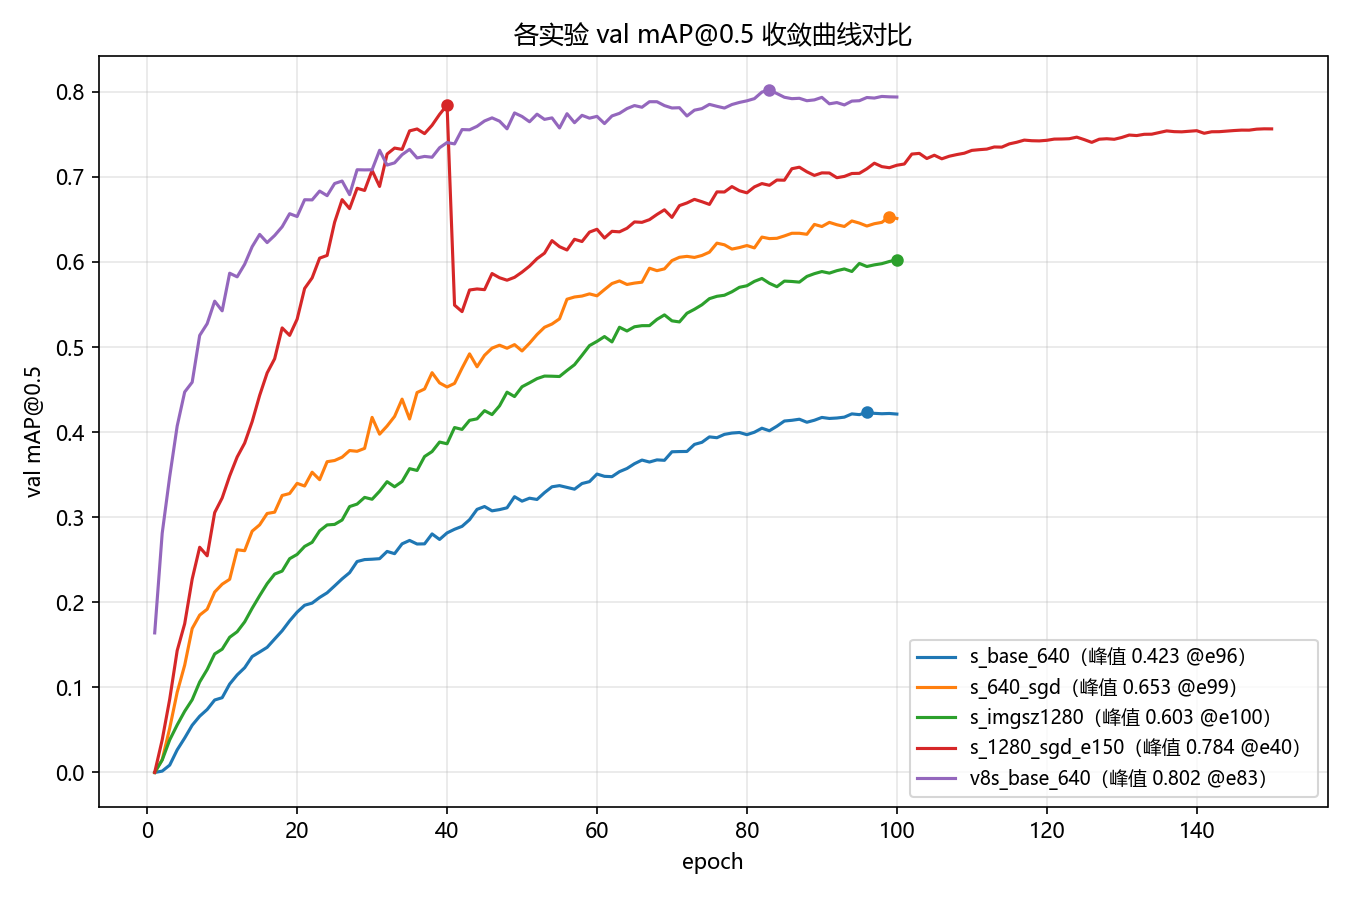
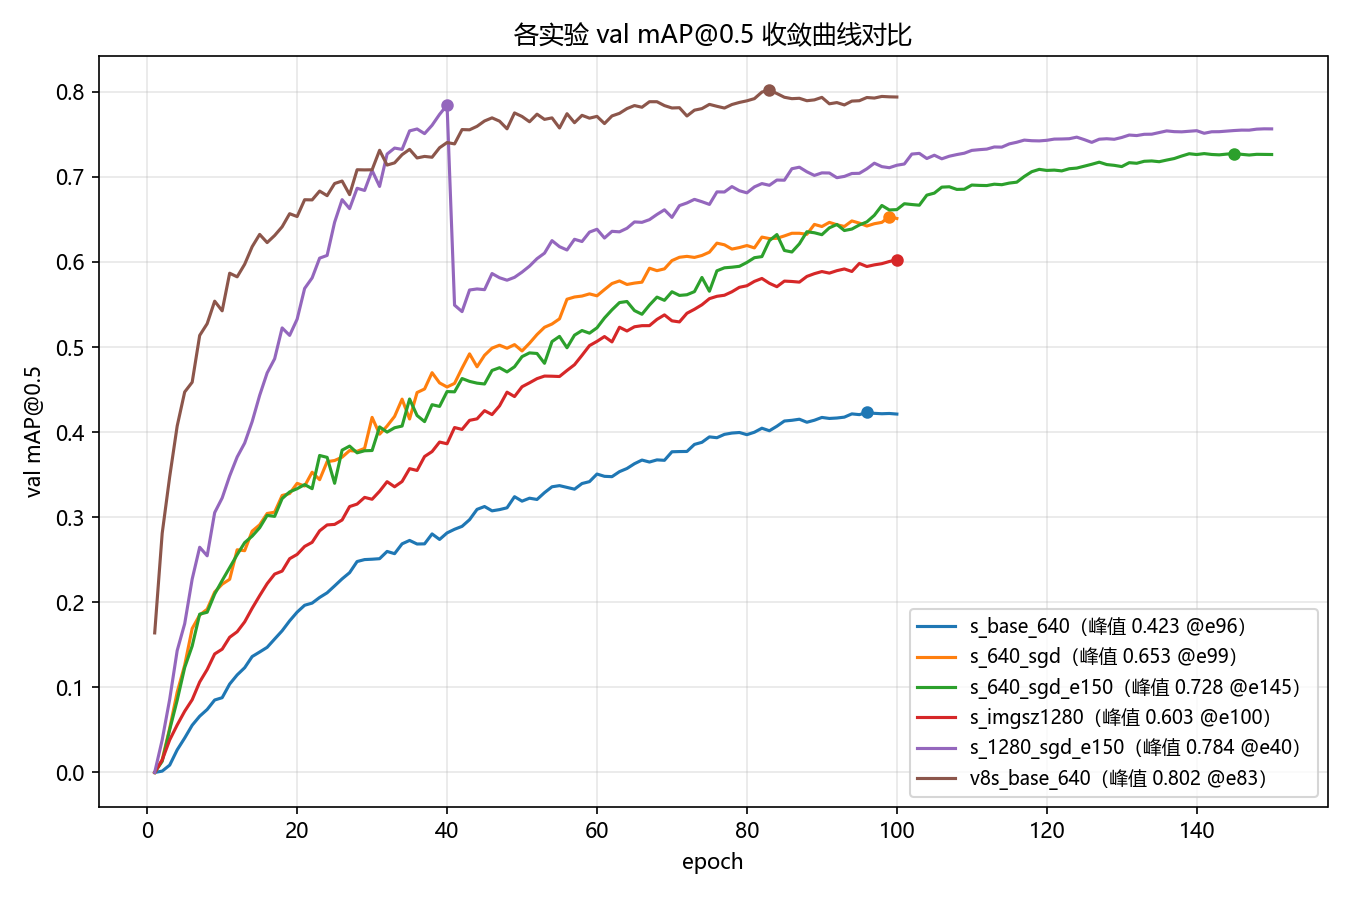
登记 v8 公平对比结果 s_640_sgd_e150：640 下 150 轮饱和于 0.706，「加 epoch 追平 v8」证伪
- test mAP@0.5=0.706 / mAP@.5:.95=0.542，val 0.728@e145 已饱和，仍低于 v8 同 640 的 0.798
- 剩余差距主要在召回（mR 0.658 vs 0.732）：one2one 头小目标召回代价，1280 下才追平 mAP@.5:.95
- 复现结论修正为「精度可比（高分辨率下）+ 端到端延迟优势」，旧推测处加后注防报告自相矛盾
- 收敛曲线图重新生成（加入 s_640_sgd_e150 共 6 条曲线）
- 含一次 e20 人工中断 + --resume 断点续训验证通过

diff --git a/experiments.md b/experiments.md
@@ -15,7 +15,7 @@
 | **`s_1280_sgd_e150`** | YOLOv10-S | 1280 | 8 | 0.01(SGD) | 150 | 默认 | **0.771** | **0.601** | ✅ **最终主实验**（test）：叠加 1280+SGD，比 baseline **+0.356(+86%)**，mAP@.5:.95 基本追平 v8（0.601 vs 0.610） |
 | `s_nomosaic` | YOLOv10-S | 640 | 16 | 0.01(SGD) | 100 | **全程关 mosaic**(--mosaic 0) | **0.629** | **0.477** | ✅ **增广消融**（test）：对照 `s_640_sgd`（仅 mosaic 不同）0.646/0.494 → 关 mosaic **−0.017**，证明 mosaic 有正贡献（3.2.3） |
 | `v8s_base_640` | YOLOv8-S | 640 | 16 | auto | 100 | 默认 | **0.798** | **0.610** | ✅ **横向对比**（test）：同条件 v8 显著高于 v10 baseline，根因是 v10 欠拟合（见下）（3.3.1） |
-| `s_640_sgd_e150` | YOLOv10-S | 640 | 16 | 0.01(SGD) | 150 | 默认 | — | — | 🔄 跑中（2026-06-10 挂起）：**v8 公平对比**——`s_640_sgd` 100 轮仍未饱和(0.646)，延长到 150 轮看同 640 条件下能否追平 v8(0.798)（3.3.1 补充） |
+| `s_640_sgd_e150` | YOLOv10-S | 640 | 16 | 0.01(SGD) | 150 | 默认 | **0.706** | **0.542** | ✅ **v8 公平对比补充**（test）：150 轮基本饱和（val 0.728@e145），同 640 条件**仍低于 v8 0.798**——「加 epoch 追平」猜想证伪，详见「公平对比补充」（3.3.1 补充） |
 | `n_base_640` | YOLOv10-N | 640 | 32 | 0.01 | 100 | 默认 | — | — | （可选）轻量版对照 |
 
 > 及格线（任务 1.3.3，先调研后定）：mAP@0.5 ≥ 0.70。达不到则进入调参循环。
@@ -30,6 +30,7 @@
 | 2026-06-04 | `v8s_base_640` | **0.798** | **0.610** | ~11.2M / 28.6 GFLOPs | — | **横向对比对照**；test 集，mP 0.791 / mR 0.732。同数据/同 640/同 100 轮，远高于 v10 baseline 0.415。**注意：这不是「v8 强于 v10」，而是 v10 在 auto 超参下严重欠拟合**（见下「优化器发现」）。 |
 | 2026-06-04 | `s_640_sgd` | **0.646** | **0.494** | 8.07M / 24.6 GFLOPs | 3.7 | test 集，mP 0.610 / mR 0.623。**仅把 optimizer=auto 换成显式 SGD lr=0.01，640 下 +0.231 mAP@0.5(+56%)**。val 曲线 100 轮仍陡升未饱和（25/50/75/100 = 0.367/0.495/0.612/0.651），说明仍欠拟合，加 epoch 还能涨。弱类仍是小目标(pl20/p6/w13/pm30 AP<0.25)。 |
 | 2026-06-05 | **`s_1280_sgd_e150`** | **0.771** | **0.601** | 8.07M | — | **最终主实验**；test 集，mP 0.723 / mR 0.708。1280+SGD lr=0.01+150轮。**val mAP50 峰值 0.784 @ epoch 40，之后 110 轮未再超过** → best.pt 取自 e40，说明 1280+SGD 收敛快、40~50 轮即饱和（与 640 下「100轮仍爬」相反，高分辨率信息更足）。比 baseline **+0.356(+86%)**。 |
+| 2026-06-11 | `s_640_sgd_e150` | **0.706** | **0.542** | 8.07M | 3.7 | test 集，mP 0.686 / mR 0.658。**v8 公平对比补充**：640+SGD 延长到 150 轮，val 0.728@e145 已基本饱和（e150=0.726），比 100 轮版 +0.060 但**仍低于 v8 同 640 的 0.798**。注：e20 处有一次人工中断+断点续训（resume 验证通过）。 |
 | 2026-06-10 | `s_nomosaic` | 0.629 | 0.477 | 8.07M | 3.7 | test 集，mP 0.632 / mR 0.598。**增广消融**：仅全程关 mosaic，比对照 `s_640_sgd` 0.646 **−0.017**，val 峰值 0.625@e100（两组均未饱和、差距稳定）。证明 mosaic 对 TT100K 小目标正贡献（3.2.3）。 |
 | 2026-06-05 | `s_1536_sgd` | 0.704 | 0.535 | 8.07M | — | **提分尝试（未达预期）**；test 集，mP 0.695 / mR 0.658。1536+SGD+100轮，但 batch 被迫降到 4。**val mAP50 单调爬升到 e100=0.673 仍未饱和**（对照 1280 batch8 在 e40 即 0.784），收敛慢一倍多 → 100 轮远不够，反低于 1280。根因是 **batch4 太小**（当时显存仅用 7.4G/12G，本可 batch8）。见下「batch 对高分辨率收敛的影响」。 |
 
@@ -54,7 +55,20 @@
 - **排除评测路径**：NMS 消融显示 v10 带 NMS(one2many) 也才 0.438，到不了 0.7，说明不是 one2one 评测压低了分。
 - **收敛曲线铁证**：v10 baseline val mAP50 在 25/50/75/100 = 0.219/0.319/0.394/**0.421**，到 100 轮**仍线性爬升未饱和**，且 epoch1=0.000（预训练几乎没起步）；而 v8 第 25 轮就 0.692 接近饱和。典型欠拟合。
 - **根因**：`optimizer=auto` 对 v10 选了保守的 AdamW（有效 lr≈2e-4），训练信号太弱。**显式 SGD lr=0.01 后**（`s_640_sgd`）640 下 test 0.415→**0.646(+56%)**，且曲线仍陡升（100 轮 val 0.651）——证实欠拟合假设。
-- **结论**：公平对比 v10 vs v8 必须先让 v10 训练充分（显式 SGD + 足够 epoch）。当前 `s_640_sgd` 0.646 仍未饱和，加 epoch / 上 1280 预计可追平甚至超过 v8。
+- **结论**：公平对比 v10 vs v8 必须先让 v10 训练充分（显式 SGD + 足够 epoch）。当前 `s_640_sgd` 0.646 仍未饱和，加 epoch / 上 1280 预计可追平甚至超过 v8。**（后注 2026-06-11：150 轮实跑证伪了「同 640 加 epoch 可追平」——饱和于 0.706，仍低于 v8 0.798；上 1280 后 mAP@.5:.95 基本追平成立，见「公平对比补充」。）**
+
+### 公平对比补充：640 下充分训练 v10 仍低于 v8（s_640_sgd_e150，3.3.1 修正）
+「优化器发现」曾推测 `s_640_sgd`（100 轮未饱和 0.646）加 epoch 可追平 v8。实跑 150 轮：
+
+| 模型 | 配置 | test mAP@0.5 | mAP@.5:.95 |
+|------|------|:---:|:---:|
+| YOLOv10-S | 640 SGD **150轮**（已饱和，val 0.728@e145） | 0.706 | 0.542 |
+| YOLOv8-S | 640 auto 100轮 | **0.798** | **0.610** |
+
+- **猜想证伪**：+50 轮只再涨 0.060，曲线已平，640 下 v10-S 距 v8-S 仍差 ~0.09 mAP@0.5——「欠拟合」只解释了 baseline 低分的大头（0.415→0.706），解释不了全部差距。
+- **剩余差距的合理解读**（报告讨论点）：①mAP@0.5 差 0.092 而 mAP@.5:.95 只差 0.068，且 v10 的 mR 偏低（0.658 vs 0.732）——one2one 头每目标只出一框，在小目标/模糊目标上召回吃亏，这正是 NMS-free 拿延迟换的代价；②v8-S 参数量大 ~40%（11.2M vs 8.07M）；③TT100K 小目标密集，是对 one2one 召回最不利的场景。
+- **公平结论链**（写报告用）：同 640 v10<v8（0.706 vs 0.798）→ 提到 1280 后 v10=0.771、mAP@.5:.95 基本追平（0.601 vs 0.610）且端到端推理更快（NMS-free）→ 复现结论是「精度可比 + 延迟优势」，与论文卖点一致，但在小目标数据上需要更高输入分辨率来补召回。
+- 注：本实验 e20 处人工中断过一次，`--resume` 断点续训通过（曲线小扰动不影响饱和判断）。
 
 ### NMS-free 消融（任务 3.4.1，复现论文 Table 3 结论）
 同一份权重（`s_base_640`，imgsz=640），切换推理头对比：

diff --git a/docs/任务拆解-YOLOv10-TT100K复现路径.md b/docs/任务拆解-YOLOv10-TT100K复现路径.md
@@ -164,7 +164,7 @@
 
 ### 3.3 横向对比（B + A）
 
-- [x] **3.3.1** **YOLOv10-S vs YOLOv8-S**：同数据/同 640/同 100 轮 → v8s **0.798** vs v10s baseline 0.415；揭示 v10 在 auto 超参下欠拟合（`v8s_base_640`，详见 experiments.md「优化器发现」）
+- [x] **3.3.1** **YOLOv10-S vs YOLOv8-S**：同数据/同 640/同 100 轮 → v8s **0.798** vs v10s baseline 0.415；揭示 v10 在 auto 超参下欠拟合（`v8s_base_640`，详见 experiments.md「优化器发现」）。**公平对比补充**：v10s 640+SGD 150 轮饱和于 **0.706** 仍低于 v8——剩余差距在 one2one 头小目标召回，1280 下才追平 mAP@.5:.95（`s_640_sgd_e150`，详见「公平对比补充」）
 - [ ] **3.3.2** **YOLOv10-S vs RT-DETR-R18**（可选，时间紧可省）
 - [ ] **3.3.3** 输出对比表（参考论文 Table 1 样式）
 
